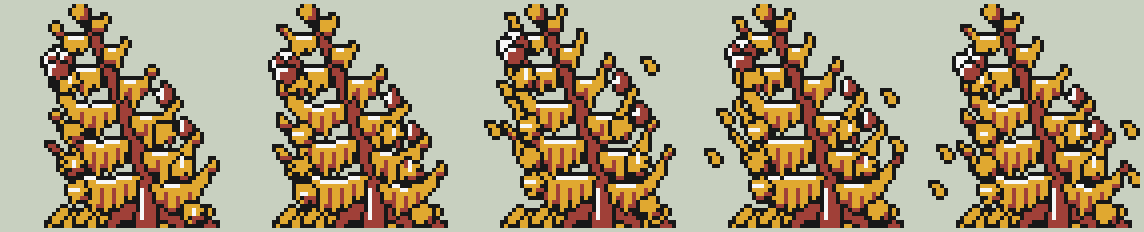
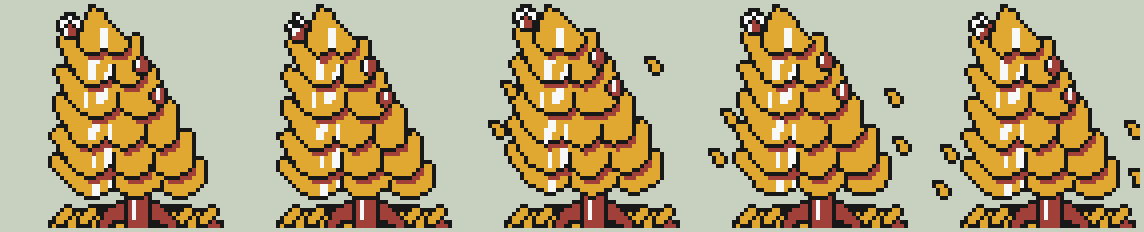
Revise the larch adult per the lead's review: a clean narrow gold cone
The adult was a busy gold mass with the red trunk showing through. It is
now a narrow cone leaning toward the foe, built from six solid gold drapes
of drooping branchlets that widen toward the bottom. Blunt bough tips
sweep up past the tier above, the dark slot is only the shadow under each
hem, white is a few sheen pixels on the lit left (no continuous white top
edges), and the trunk shows only at the foot. The larch rose is bigger and
sits upper-left. The back is the same cone from behind and above, leaning
top-right with the rose visible, and the icon is a little gold cone with
upswept tips. The falling-needle intro, the needle heap, the sizes and the
QA passes are kept; the approved seedling is byte-identical.

diff --git a/tools/art/crystal/larch.py b/tools/art/crystal/larch.py
@@ -5,12 +5,15 @@ on a soil mound with a low lead twig held across the front like a shield and
 a smaller rear twig up behind. Every twig carries soft rosettes: starburst
 tufts of short needles on little spurs. One rosy-red larch rose (the young
 female cone) stands upright on the leader: the line's accent.
-larch (adult), LOOMING: a tall narrow cone leaning over the foe. Upswept
-boughs carry drooping branchlets strung with autumn-gold rosettes, a few
-small upright cones and the red larch rose; fallen gold needles drift at the
-foot of the trunk (the signature NEEDLE DROP).
+larch (adult), LOOMING: a tall narrow cone leaning over the foe, built from
+six tiers of solid autumn-gold drapes (curtains of drooping branchlets) that
+widen toward the bottom. Each tier's blunt bough tips sweep up past the tier
+above; the dark slot is only the shadow under each hem, a few white sheen
+pixels light the left of each drape, and the trunk shows only at the foot.
+Two small upright cones, the red larch rose upper-left toward the foe, and
+fallen gold needles heaped at the foot (the signature NEEDLE DROP).
 
-Intro: the boughs dip, lift and shake while a shower of needles falls, then
+Intro: the tiers dip, lift and shake while a shower of needles falls, then
 settle. Trunk, roots and ground stay registered.
 Two tones: fresh green (seedling) / autumn gold (adult) over a rosy bark
 red-brown, which is also the larch rose and the cones (dark slot).
@@ -165,76 +168,113 @@ def seedling(s, lift=0.0):
 
 # --------------------------------------------------------------- adult ----
 
-TRUNK = [(35, 56), (34, 42), (27, 21), (18, 1)]
-# Upswept boughs, bottom to top: (trunk y, side -1 left / +1 right, reach,
-# curtain depth). The foe side (left) reaches further: the cone leans over.
-BOUGHS = [(45, 1, 16, 7), (43, -1, 22, 8), (37, 1, 14, 7), (34, -1, 19, 8),
-          (28, 1, 12, 7), (25, -1, 16, 7), (19, 1, 9, 6), (16, -1, 12, 6),
-          (11, 1, 6, 5), (8, -1, 8, 5), (4, 1, 4, 4)]
+# Tiers of drooping branchlet curtains, top to bottom, as (top, hem) fractions
+# of the cone's height. Each overlaps the one below so the trunk only shows
+# at the foot.
+TIERS = [(0.0, 0.22), (0.15, 0.39), (0.32, 0.56), (0.49, 0.73), (0.66, 0.89), (0.82, 1.0)]
 
 
-def trunk_at(y):
-    path = bez(TRUNK, 200)
-    return min(path, key=lambda p: abs(p[1] - y))
+class Cone:
+    """The crown's envelope: a narrow cone from `apex` to the hem line at
+    `base`, its axis leaning toward the foe."""
+
+    def __init__(self, apex, base, half):
+        self.apex, self.base, self.half = apex, base, half
+
+    def y(self, f):
+        return self.apex[1] + (self.base[1] - self.apex[1]) * f
+
+    def c(self, f):
+        return self.apex[0] + (self.base[0] - self.apex[0]) * f
+
+    def hw(self, f):
+        return 1.2 + self.half * max(0.0, f) ** 0.88
 
 
-def spray(s, at, side, reach, depth, lift=0.0, rim=1.0):
-    """One upswept bough with its curtain of drooping branchlets.
+def drape(s, env, f0, f1, lift=0.0, tip=3.0, scallop=9.0, top=False):
+    """One tier: a solid gold drape of drooping branchlets.
 
-    The bough leaves the trunk level and sweeps up at the tip; under it the
-    branchlets hang in a curtain whose hem is a fringe of rosette points.
-    Bark-tone strands run down the curtain, the hem band is shaded and the
-    bough's lit top edge takes a short white rim. Returns the bough tip.
-    """
-    x0, y0 = at
-    x0 += side * 1.5
-    rise = reach * 0.4 + lift
-    tip = (x0 + side * reach, y0 - rise)
-    top = bez([(x0, y0), (x0 + side * reach * 0.55, y0 + 0.3 - lift * 0.2), tip], 50)
-    n = max(2, round(reach / 3.2))
-    hem = []
-    for i in range(2 * n + 1):
-        f = 0.08 + 0.9 * i / (2 * n)
-        bx, by = top[min(len(top) - 1, int(f * (len(top) - 1)))]
-        d = depth * (0.55 + 0.45 * math.sin(math.pi * min(1.0, f * 1.25)))
-        d = min(d, 2 + depth * (1 - f) * 1.6)
-        hem.append((bx, by + d + (0.6 if i % 2 == 0 else -2.2)))
-    poly = top + [(tip[0], tip[1] + 1.5)] + hem[::-1]
-    m = s.poly(poly)
-    pid = s.part(m, base=2, k=1, shadow=(0.3 * side, 1), sh_tone=1, line=0)
-    for i in range(1, 2 * n, 2):
-        hx, hy = hem[i]
-        f = 0.08 + 0.9 * i / (2 * n)
-        ty = top[min(len(top) - 1, int(f * (len(top) - 1)))][1]
-        if hy - ty > 3:
-            s.decal(s.line1([(hx + 0.5, ty + 2.5), (hx + 0.5, hy + 0.5)]), 1, on=[pid])
-    up_edge = m & ~np.roll(m, 1, axis=0)
-    yy, xx = np.mgrid[0:s.h, 0:s.w]
-    ox = getattr(s, "ox", 0)
-    lo, hi = sorted((x0 + ox + side * reach * 0.12, x0 + ox + side * reach * (0.7 if side < 0 else 0.4) * rim))
-    s.decal(up_edge & (xx >= lo) & (xx <= hi), 3, on=[pid])
-    if reach >= 12:
-        # a drooping branchlet ends in a gold rosette below the hem
-        hx, hy = hem[int(len(hem) * 0.62)]
-        tuft(s, hx, hy + 1.5, 3.2, a0=reach * 0.7, white=1)
-    return tip
+    The top corners are blunt upswept bough tips poking out past the tier
+    above (the top tier is the spire instead); the hem is a few long rounded
+    scallops parted by short black strand notches; a small white sheen sits
+    on the lit left of the drape. Returns (mask, part id, left tip, right tip)."""
+    y0, y1 = env.y(f0), env.y(f1)
+    c0, c1 = env.c(f0), env.c(f1)
+    w0, w1 = env.hw(f0 + 0.08), env.hw(f1)
+    up = tip + lift
+    lt = (c0 - w0 - 3.5, y0 + 2.5 - up)
+    rt = (c0 + w0 + 3.5, y0 + 2.5 - up * 0.8)
+    if top:
+        pts = [(c0 - 1.2, y0), (c0 + 1.2, y0)]
+    else:
+        pts = [(c0 - w0 * 0.4, y0), (c0 + w0 * 0.4, y0),
+               (rt[0] - 2.5, rt[1] + 1.5), (rt[0] - 0.5, rt[1]), (rt[0] + 1.0, rt[1] + 0.3),
+               (rt[0] + 1.2, rt[1] + 2.0)]
+    n = max(2, round(2 * w1 / scallop))
+    xr, xl = c1 + w1 + 1.0, c1 - w1 - 1.0
+    hem, notches = [], []
+    for k in range(n):
+        a, b = xr - (xr - xl) * k / n, xr - (xr - xl) * (k + 1) / n
+        for u in np.linspace(0, 1, 9):
+            x = a + (b - a) * u
+            edge = abs(x - c1) / (w1 + 1)
+            droop = 2.8 * math.sin(math.pi * u) ** 0.7 - lift * 0.6 * edge
+            hem.append((x, y1 - 2.0 + droop))
+        if k < n - 1:
+            notches.append((b, y1 - 2.0))
+    pts += hem
+    if not top:
+        pts += [(lt[0] - 1.2, lt[1] + 2.0), (lt[0] - 1.0, lt[1] + 0.3), (lt[0] + 0.5, lt[1]),
+                (lt[0] + 2.5, lt[1] + 1.5)]
+    m = s.poly(pts)
+    pid = s.part(m, base=2, k=0, line=0)
+    for x, y in notches:
+        s.decal(s.line1([(x + 0.5, y - 2.0), (x + 0.5, y + 1.5)]), 0, on=[pid])
+    # sheen: a small white highlight on the lit left of the drape, below the
+    # hem of the tier above (never along an edge)
+    alt = round(f0 * 6) % 2
+    x = c1 - w1 * ((0.72 if alt else 0.5) if not top else 0.2) + 0.5
+    ya = y0 + (y1 - y0) * ((0.5 if alt else 0.42) if not top else 0.45)
+    s.decal(s.poly([(x, ya), (x + 1.8, ya), (x + 1.3, ya + 4.5), (x - 0.5, ya + 4.5)]), 3, on=[pid])
+    if not top:
+        x2 = x + (4 if alt else -3.5)
+        s.decal(s.line1([(x2 + 0.5, ya + 1.5), (x2 + 0.3, ya + 4.5)]), 3, on=[pid])
+    return m, pid, lt, rt
+
+
+def crown(s, env, lift=0.0, tiers=TIERS, rose_at=1, rose_size=0.9, cones=(2, 3), shadow=True, side=-1):
+    """Draw the tiers bottom first, so each hem overlaps the tier below and
+    casts its shadow (the dark slot) onto it."""
+    from _d_kit import shift
+    drawn, tips = [], {}
+    for i in range(len(tiers) - 1, -1, -1):
+        f0, f1 = tiers[i]
+        m, pid, lt, rt = drape(s, env, f0, f1, lift * (0.4 + 0.6 * f1), top=(i == 0))
+        tips[i] = (lt, rt)
+        if shadow and drawn:
+            band = (shift(m, -1, -1) | shift(m, -1, -2)) & ~m
+            s.decal(band, 1, on=drawn)
+        drawn.append(pid)
+    for i in cones:
+        x, y = tips[i][1 if side < 0 else 0]
+        cone(s, x + side * 2.5, y - 1.0, 0.7)
+    x, y = tips[rose_at][0 if side < 0 else 1]
+    rose(s, x - side * 1.0, y - 2.6 * rose_size, rose_size)
+    return tips
+
+
+FRONT_CONE = Cone((20.5, 1.5), (31.0, 47.0), 14.5)
+BACK_CONE = Cone((35.0, 1.0), (21.0, 50.0), 22.0)
+BACK_TIERS = [(0.0, 0.22), (0.14, 0.40), (0.32, 0.60), (0.52, 0.80), (0.72, 1.0)]
 
 
 def adult(s, lift=0.0):
-    s.ox = 1
+    s.ox = 2
     soil(s, 10, 52, litter=True)
-    wood(s, [(33, 52), (29, 52), (26, 55)], (3.5, 2), shine=False)
-    wood(s, [(35, 52), (39, 52), (43, 55)], (3.5, 2), shine=False)
-    wood(s, TRUNK, (4.5, 1.2))
-    tips = {}
-    for y, side, reach, depth in BOUGHS:
-        tips[(y, side)] = spray(s, trunk_at(y), side, reach, depth, lift * (0.5 + reach / 22))
-    for key in ((28, 1), (37, 1)):
-        x, y = tips[key]
-        cone(s, x - 4, y - 0.5, 0.8)
-    x, y = tips[(25, -1)]
-    rose(s, x + 1.5, y - 3.5, 1.1)
-    tuft(s, 18, 2, 2.5)
+    wood(s, [(30, 52), (26, 52), (23, 55)], (3.5, 2), shine=False)
+    wood(s, [(32, 52), (36, 52), (40, 55)], (3.5, 2), shine=False)
+    wood(s, [(31.5, 55), (31, 44), (28, 30)], (4.5, 3.0))
+    crown(s, FRONT_CONE, lift, rose_size=0.75)
 
 
 # ------------------------------------------------------------- frames -----
@@ -326,52 +366,42 @@ def back(sid):
         wood(s, [(32, 12), (34, 8)], 2, shine=False)
         rose(s, 35, 6, 1.6)
     else:
-        trunk = [(19, 60), (21, 40), (28, 17), (35, 3)]
-        wood(s, trunk, (8, 2))
-        path = bez(trunk, 200)
-
-        def at(y):
-            return min(path, key=lambda p: abs(p[1] - y))
-        tips = {}
-        for y, side, reach, depth in ((47, -1, 20, 11), (46, 1, 24, 11), (39, -1, 18, 10),
-                                      (37, 1, 21, 10), (30, -1, 15, 9), (28, 1, 18, 9),
-                                      (21, -1, 12, 8), (19, 1, 14, 8), (12, -1, 8, 6),
-                                      (10, 1, 10, 6), (5, 1, 6, 5)):
-            tips[(y, side)] = spray(s, at(y), side, reach, depth, rim=1.6)
-        x, y = tips[(28, 1)]
-        rose(s, x - 3, y - 3, 1.4)
-        tuft(s, 35, 3, 3)
+        # the same cone from behind and above: its tip leans to the top-right,
+        # toward the foe, the near tiers big and cut off by the screen edge
+        crown(s, BACK_CONE, tiers=BACK_TIERS, rose_at=1, rose_size=1.1, cones=(2,),
+              side=1)
     return blunt(tones(s, open_bottom=True))
 
 
-# The adult icon: a narrow gold cone leaning left, its edge notched into
-# whorls of upswept boughs. Per row: (reach left of the trunk, reach right,
-# role) where role is "top" (lit bough), "hang" (hanging strands) or "-".
-ICON_ROWS = [(0, 0, "-"), (1, 1, "top"), (2, 1, "-"), (1, 1, "hang"),
-             (3, 2, "top"), (4, 3, "-"), (3, 2, "hang"),
-             (5, 4, "top"), (6, 5, "-"), (5, 4, "hang"),
-             (7, 5, "top"), (7, 6, "-"), (6, 5, "hang")]
+# The adult icon: a little gold cone of three drapes leaning left, each tier's
+# bough tips swept up past the tier above, the shadow under each hem in the
+# dark slot, a white sheen on the lit left, over a trunk foot and needles.
+# (first row, [(left, right) per row], tips)
+ICON_TIERS = [(1, [(6, 6), (5, 7), (4, 8), (4, 9)], False),
+              (5, [(3, 9), (3, 10), (2, 10), (2, 11)], True),
+              (9, [(2, 11), (1, 12), (1, 13), (2, 13)], True)]
 
 
 def adult_icon():
     from _d_kit import close_outline
     t = np.full((16, 16), -1, int)
-    for y, (lw, rw, role) in enumerate(ICON_ROWS, start=1):
-        c = int(round(5.5 + (y - 1) * 0.25))
-        for x in range(c - lw, c + rw + 1):
-            t[y, x] = 2
-        if role == "hang":
-            for x in range(c - lw, c + rw + 1):
-                if (x - c) % 3:
-                    t[y, x] = 1
-        t[y, c + rw] = 1 if y > 2 else t[y, c + rw]           # the shade side
-        if role == "top":
-            t[y, c - lw:c - lw + 2] = 3                         # the lit bough
-        if y >= 4:
-            t[y, c] = 1                                         # the trunk
-    t[14, 6:9] = 1
-    t[15, 3:13] = 2
-    t[15, 6:9] = 1
+    for k, (y0, rows, tips) in enumerate(ICON_TIERS):
+        for j, (l, r) in enumerate(rows):
+            y = y0 + j
+            t[y, l:r + 1] = 2
+            if j == 0 and k:
+                t[y, l + 2:r] = 1                      # the shadow under the hem above
+            if j == 1 or (k == 0 and j == 2):
+                t[y, l:l + 2] = 3                      # the lit sheen
+            if j and y > 2:
+                t[y, r] = 1                            # the shade side
+        if tips:
+            l, r = rows[0]
+            t[y0 - 1, l - 1] = 2
+            t[y0 - 1, r + 1] = 2
+    t[13, 6:8] = 1                                     # the trunk
+    t[14, 3:13] = 2                                    # fallen needles
+    t[14, 6:8] = 1
     t = close_outline(t)
     return np.where(t >= 0, t, T).astype(np.uint8)
 
@@ -420,9 +450,9 @@ def build():
         "larch_seedling": "BRACED: a short woody stem on a soil mound; a low lead twig of big green "
                           "needle rosettes held across the front like a shield, a smaller rear twig "
                           "behind, and one rosy-red larch rose upright on the leader.",
-        "larch": "LOOMING: a tall narrow cone leaning over the foe; upswept boughs with drooping "
-                 "branchlets of autumn-gold rosettes, small upright cones, one red larch rose, and "
-                 "fallen gold needles heaped at the foot.",
+        "larch": "LOOMING: a tall narrow cone leaning over the foe, tiers of solid autumn-gold "
+                 "drapes of drooping branchlets with blunt upswept bough tips, small upright cones, "
+                 "one red larch rose upper-left, and fallen gold needles heaped at the foot.",
     }
     for sid in IDS:
         fs, b, icons = art[sid]
